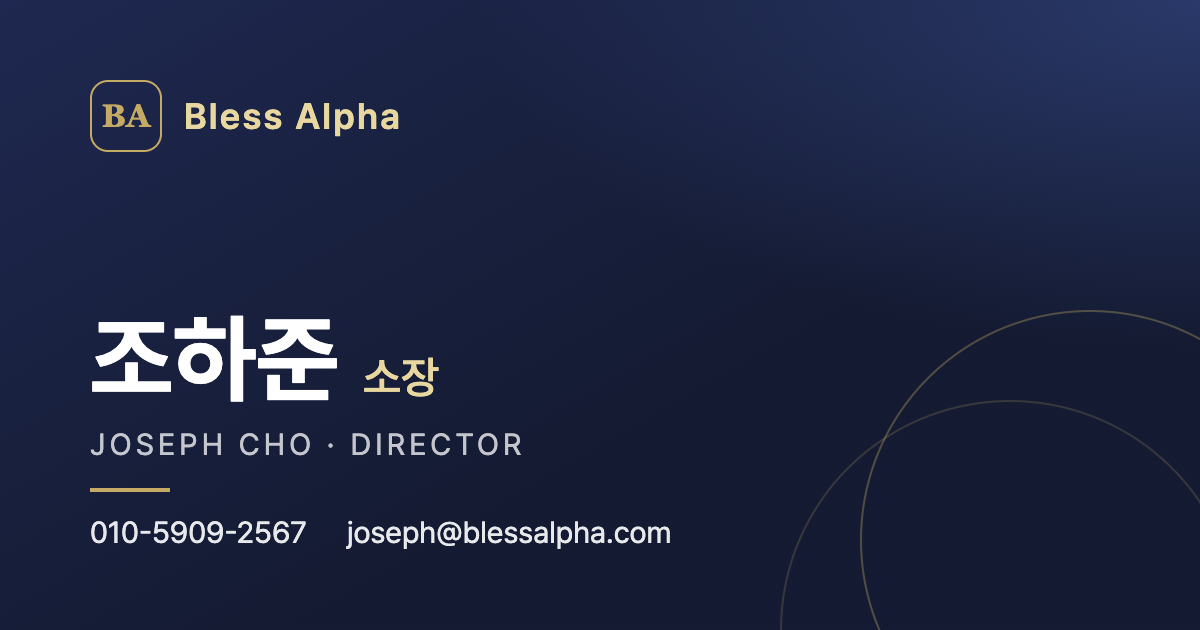
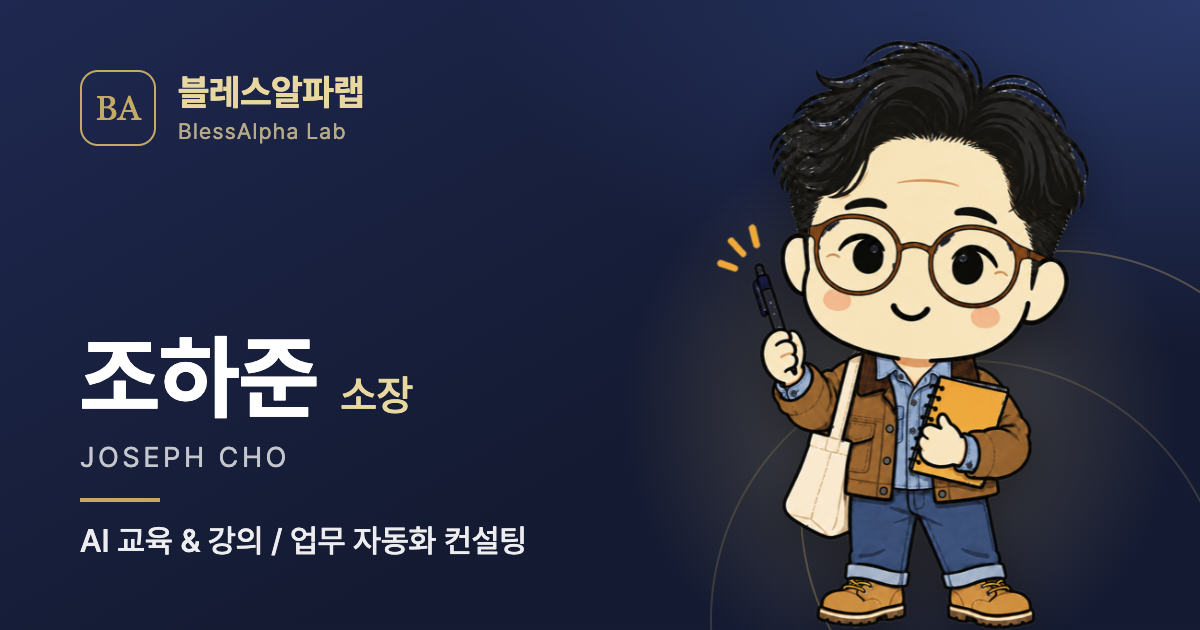
명함 앞면 정보(블레스알파랩) + 캐주얼 브라운 캐릭터 추가

diff --git a/index.html b/index.html
@@ -3,13 +3,13 @@
 <head>
 <meta charset="utf-8">
 <meta name="viewport" content="width=device-width, initial-scale=1, viewport-fit=cover">
-<title>조하준 소장 | Bless Alpha</title>
-<meta name="description" content="조하준 소장 · 010-5909-2567 · joseph@blessalpha.com">
+<title>조하준 소장 | 블레스알파랩 BlessAlpha Lab</title>
+<meta name="description" content="AI 교육 &amp; 강의 / 업무 자동화 컨설팅 · 010-5909-2567 · joseph@blessalpha.com">
 <meta property="og:type" content="profile">
-<meta property="og:title" content="조하준 소장 | Bless Alpha">
-<meta property="og:description" content="010-5909-2567 · joseph@blessalpha.com · 눌러서 연락처 저장">
+<meta property="og:title" content="조하준 소장 | 블레스알파랩 BlessAlpha Lab">
+<meta property="og:description" content="AI 교육 &amp; 강의 / 업무 자동화 컨설팅 · 눌러서 연락처 저장">
 <meta property="og:url" content="https://febrile-hj.github.io/card/">
-<meta property="og:image" content="https://febrile-hj.github.io/card/og.png?v=2">
+<meta property="og:image" content="https://febrile-hj.github.io/card/og.png?v=3">
 <meta property="og:image:width" content="1200">
 <meta property="og:image:height" content="630">
 <meta name="twitter:card" content="summary_large_image">
@@ -21,18 +21,23 @@
   *{box-sizing:border-box;margin:0;padding:0}
   body{font-family:Pretendard,-apple-system,BlinkMacSystemFont,"Apple SD Gothic Neo","Noto Sans KR","Malgun Gothic",sans-serif;background:var(--bg);color:var(--ink);-webkit-font-smoothing:antialiased;padding:max(20px,env(safe-area-inset-top)) 16px 40px}
   .wrap{max-width:440px;margin:0 auto}
-  .card{position:relative;border-radius:22px;padding:30px 26px 26px;color:#fff;overflow:hidden;
+  .card{position:relative;border-radius:22px;padding:24px 22px 22px;color:#fff;overflow:hidden;min-height:268px;
     background:radial-gradient(120% 90% at 100% 0%,#1e4677 0%,rgba(30,70,119,0) 55%),linear-gradient(150deg,var(--navy2),var(--navy) 60%);
-    box-shadow:0 18px 40px -18px rgba(11,31,58,.55);aspect-ratio:1.7/1;display:flex;flex-direction:column;justify-content:space-between}
-  .card:after{content:"";position:absolute;right:-60px;bottom:-60px;width:200px;height:200px;border:1px solid rgba(212,175,106,.35);border-radius:50%}
-  .card:before{content:"";position:absolute;right:-20px;bottom:-95px;width:200px;height:200px;border:1px solid rgba(212,175,106,.2);border-radius:50%}
-  .brand{display:flex;align-items:center;gap:10px;font-size:15px;letter-spacing:.06em;color:var(--gold2);font-weight:600}
-  .mono{width:34px;height:34px;border-radius:9px;border:1px solid var(--gold);display:grid;place-items:center;font-family:Georgia,"Times New Roman",serif;color:var(--gold);font-size:15px;letter-spacing:0}
-  .who{position:relative;z-index:1}
-  .name{font-size:30px;font-weight:700;letter-spacing:-.01em;display:flex;align-items:baseline;gap:10px}
+    box-shadow:0 18px 40px -18px rgba(11,31,58,.55);display:flex;flex-direction:column;justify-content:space-between}
+  .card:after{content:"";position:absolute;right:-70px;bottom:-70px;width:240px;height:240px;border:1px solid rgba(212,175,106,.35);border-radius:50%}
+  .card:before{content:"";position:absolute;right:-20px;bottom:-120px;width:240px;height:240px;border:1px solid rgba(212,175,106,.2);border-radius:50%}
+  .glow{position:absolute;right:-30px;bottom:-40px;width:250px;height:250px;border-radius:50%;background:radial-gradient(circle,rgba(241,217,166,.30) 0%,rgba(212,175,106,.12) 45%,rgba(212,175,106,0) 70%);z-index:0}
+  .char{position:absolute;right:4px;bottom:0;height:88%;max-height:250px;z-index:1;filter:drop-shadow(0 8px 14px rgba(0,0,0,.35))}
+  .brand{position:relative;z-index:2;display:flex;align-items:center;gap:10px}
+  .mono{flex:0 0 34px;width:34px;height:34px;border-radius:9px;border:1px solid var(--gold);display:grid;place-items:center;font-family:Georgia,"Times New Roman",serif;color:var(--gold);font-size:15px}
+  .bk{font-size:15px;font-weight:700;color:var(--gold2);line-height:1.2}
+  .be{font-size:11px;letter-spacing:.06em;color:rgba(241,217,166,.75);margin-top:2px}
+  .who{position:relative;z-index:2;max-width:60%}
+  .name{font-size:29px;font-weight:700;letter-spacing:-.01em;display:flex;align-items:baseline;gap:8px;white-space:nowrap}
   .name small{font-size:16px;font-weight:500;color:var(--gold2)}
-  .en{margin-top:4px;font-size:13px;letter-spacing:.14em;color:rgba(255,255,255,.72);text-transform:uppercase}
-  .bar{width:36px;height:2px;background:var(--gold);margin:12px 0 0}
+  .en{margin-top:3px;font-size:13px;letter-spacing:.12em;color:rgba(255,255,255,.72);text-transform:uppercase}
+  .bar{width:36px;height:2px;background:var(--gold);margin:12px 0 10px}
+  .tag{font-size:13px;line-height:1.5;color:rgba(255,255,255,.88);font-weight:500}
   .actions{display:grid;grid-template-columns:repeat(4,1fr);gap:10px;margin:18px 0 12px}
   .act{display:flex;flex-direction:column;align-items:center;gap:6px;padding:12px 2px;white-space:nowrap;letter-spacing:-.02em;border-radius:14px;background:#fff;border:1px solid var(--line);text-decoration:none;color:var(--ink);font-size:13px;font-weight:600}
   .act svg{width:22px;height:22px;stroke:var(--navy);fill:none;stroke-width:1.8;stroke-linecap:round;stroke-linejoin:round}
@@ -43,11 +48,12 @@
   .row:first-child{border-top:0}
   .row .k{flex:0 0 52px;font-size:12px;color:var(--muted);padding-top:2px}
   .row .v{font-size:15px;font-weight:500;word-break:keep-all;overflow-wrap:anywhere;line-height:1.45}
+  .row .v em{display:block;font-style:normal;font-size:12px;font-weight:700;letter-spacing:.08em;color:#8a6a35}
   .qr{margin-top:14px;background:#fff;border:1px solid var(--line);border-radius:16px;padding:18px;text-align:center}
   .qr img{width:180px;height:180px;display:block;margin:0 auto 10px;image-rendering:pixelated}
   .qr p{font-size:13px;color:var(--muted)}
   .share{margin-top:10px;width:100%;padding:13px;border-radius:12px;border:1px solid var(--navy);background:#fff;color:var(--navy);font-size:15px;font-weight:600;font-family:inherit}
-  .foot{margin-top:18px;text-align:center;font-size:11px;color:#a3a9b1;letter-spacing:.08em}
+  .foot{margin-top:18px;text-align:center;font-size:11px;color:#a3a9b1;letter-spacing:.04em}
   .toast{position:fixed;left:50%;bottom:28px;transform:translateX(-50%) translateY(20px);background:rgba(27,36,48,.92);color:#fff;padding:10px 16px;border-radius:999px;font-size:14px;opacity:0;transition:.25s;pointer-events:none}
   .toast.on{opacity:1;transform:translateX(-50%) translateY(0)}
 </style>
@@ -55,11 +61,14 @@
 <body>
 <main class="wrap">
   <section class="card" aria-label="명함">
-    <div class="brand"><span class="mono">BA</span>Bless Alpha</div>
+    <div class="glow"></div>
+    <img class="char" src="char.png" alt="조하준 소장 캐릭터">
+    <div class="brand"><span class="mono">BA</span><div><div class="bk">블레스알파랩</div><div class="be">BlessAlpha Lab</div></div></div>
     <div class="who">
       <div class="name">조하준 <small>소장</small></div>
-      <div class="en">Joseph Cho · Director</div>
+      <div class="en">Joseph Cho</div>
       <div class="bar"></div>
+      <div class="tag">AI 교육 &amp; 강의<br>업무 자동화 컨설팅</div>
     </div>
   </section>
 
@@ -75,7 +84,8 @@
   <section class="info">
     <a class="row" href="tel:01059092567"><span class="k">휴대폰</span><span class="v">010-5909-2567</span></a>
     <a class="row" href="mailto:joseph@blessalpha.com"><span class="k">이메일</span><span class="v">joseph@blessalpha.com</span></a>
-    <a class="row" href="https://map.naver.com/p/search/%EC%84%9C%EC%9A%B8%20%EA%B0%95%EB%8F%99%EA%B5%AC%20%EA%B3%A0%EB%8D%95%EB%A1%9C28%EA%B8%B8%2010-9" target="_blank" rel="noopener"><span class="k">주소</span><span class="v">서울시 강동구 고덕로28길 10-9, 1층</span></a>
+    <div class="row"><span class="k">웹사이트</span><span class="v">blessalpha.com</span></div>
+    <a class="row" href="https://map.naver.com/p/search/%EC%84%9C%EC%9A%B8%20%EA%B0%95%EB%8F%99%EA%B5%AC%20%EA%B3%A0%EB%8D%95%EB%A1%9C28%EA%B8%B8%2010-9" target="_blank" rel="noopener"><span class="k">주소</span><span class="v"><em>BLESS LAB</em>서울특별시 강동구 고덕로28길 10-9, 1층 101호</span></a>
   </section>
 
   <section class="qr">
@@ -84,16 +94,16 @@
     <button class="share" id="share">카톡 등으로 명함 공유하기</button>
   </section>
 
-  <p class="foot">Bless Alpha · Joseph Cho</p>
+  <p class="foot">블레스알파랩 · BlessAlpha Lab</p>
 </main>
 <div class="toast" id="toast">명함 내용이 복사됐어요</div>
 <script>
   const url = 'https://febrile-hj.github.io/card/';
-  const cardText = '[명함] 조하준 소장 (Bless Alpha)\nJoseph Cho\n휴대폰 010-5909-2567\n이메일 joseph@blessalpha.com\n주소 서울시 강동구 고덕로28길 10-9, 1층\n명함 보기·연락처 저장: ' + url;
+  const cardText = '[명함] 조하준 소장 (Joseph Cho)\n블레스알파랩 BlessAlpha Lab\nAI 교육 & 강의 / 업무 자동화 컨설팅\nM. 010-5909-2567\nE. joseph@blessalpha.com\nW. blessalpha.com\n주소 서울특별시 강동구 고덕로28길 10-9, 1층 101호 (BLESS LAB)\n명함 보기·연락처 저장: ' + url;
   const isIOS = /iPad|iPhone|iPod/.test(navigator.userAgent) || (navigator.platform === 'MacIntel' && navigator.maxTouchPoints > 1);
   document.getElementById('smsBtn').href = (isIOS ? 'sms:&body=' : 'sms:?body=') + encodeURIComponent(cardText);
   document.getElementById('share').addEventListener('click', async () => {
-    if (navigator.share) { try { await navigator.share({ title: '조하준 소장 | Bless Alpha', text: cardText.replace('\n명함 보기·연락처 저장: ' + url, '\n명함 보기·연락처 저장:'), url }); return; } catch (e) { if (e.name === 'AbortError') return; } }
+    if (navigator.share) { try { await navigator.share({ title: '조하준 소장 | 블레스알파랩', text: cardText.replace('\n명함 보기·연락처 저장: ' + url, '\n명함 보기·연락처 저장:'), url }); return; } catch (e) { if (e.name === 'AbortError') return; } }
     try { await navigator.clipboard.writeText(cardText); } catch (e) { const t = document.createElement('textarea'); t.value = cardText; document.body.appendChild(t); t.select(); document.execCommand('copy'); t.remove(); }
     const el = document.getElementById('toast'); el.classList.add('on'); setTimeout(() => el.classList.remove('on'), 1800);
   });
